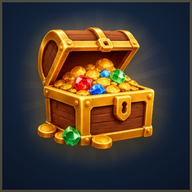
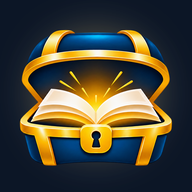
Icônes de l'appli (écran d'accueil, Apple, maskable, barre du site) avec le nouveau coffre ; cache de l'appli renouvelé
Claude-Session: https://claude.ai/code/session_01Co3Sq1uW57Cix38HbeX1Bz

diff --git a/public/jeu-de-societe-valeurs-islamiques/index.html b/public/jeu-de-societe-valeurs-islamiques/index.html
@@ -31,7 +31,7 @@
 <meta property="og:image:width" content="1200"><meta property="og:image:height" content="630">
 <meta name="twitter:card" content="summary_large_image">
 <link rel="icon" type="image/png" sizes="32x32" href="/img/logo/favicon-32.png?v=2"><link rel="icon" type="image/png" sizes="48x48" href="/img/logo/favicon-48.png?v=2"><link rel="icon" type="image/png" sizes="192x192" href="/img/logo/favicon-192.png?v=2">
-<link rel="apple-touch-icon" href="/img/app/apple-touch-icon.png">
+<link rel="apple-touch-icon" href="/img/app/apple-touch-icon.png?v=2">
 <link rel="preconnect" href="https://fonts.googleapis.com"><link rel="preconnect" href="https://fonts.gstatic.com" crossorigin>
 <link rel="stylesheet" href="https://fonts.googleapis.com/css2?family=Lilita+One&family=Nunito:wght@500;700;800;900&family=Noto+Naskh+Arabic:wght@500;700&display=swap">
 <script type="application/ld+json">{"@context": "https://schema.org", "@graph": [{"@type": "Article", "headline": "Enfin un jeu de société fidèle à nos valeurs, pour toute la famille", "description": "Un jeu de société familial en accord avec nos valeurs : sans dés, sans hasard, sans musique, sans riba ni publicité. Découvrez comment il a été pensé.", "inLanguage": "fr", "mainEntityOfPage": "https://kounouzi.com/jeu-de-societe-valeurs-islamiques/", "image": "https://kounouzi.com/img/site/og-fr.jpg", "author": {"@type": "Organization", "name": "Kounouzi", "url": "https://kounouzi.com/"}, "publisher": {"@type": "Organization", "name": "Kounouzi", "logo": {"@type": "ImageObject", "url": "https://kounouzi.com/img/logo/favicon-192.png"}}}, {"@type": "BreadcrumbList", "itemListElement": [{"@type": "ListItem", "position": 1, "name": "Kounouzi", "item": "https://kounouzi.com/"}, {"@type": "ListItem", "position": 2, "name": "Guides", "item": "https://kounouzi.com/#guides"}, {"@type": "ListItem", "position": 3, "name": "Fidèle à nos valeurs", "item": "https://kounouzi.com/jeu-de-societe-valeurs-islamiques/"}]}, {"@type": "FAQPage", "inLanguage": "fr", "mainEntity": [{"@type": "Question", "name": "Kounouzi a-t-il une certification religieuse ?", "acceptedAnswer": {"@type": "Answer", "text": "Non : Kounouzi a été conçu dans le respect des principes islamiques (sans dés ni hasard pour avancer, sans musique, sans riba, sans publicité). Chaque famille reste juge de ce qui lui convient."}}, {"@type": "Question", "name": "Peut-on couper tous les sons ?", "acceptedAnswer": {"@type": "Answer", "text": "Oui. La voix et les petits effets se désactivent dans les réglages du jeu."}}]}]}</script>

diff --git a/public/jeu-educatif-islamique-enfant/index.html b/public/jeu-educatif-islamique-enfant/index.html
@@ -31,7 +31,7 @@
 <meta property="og:image:width" content="1200"><meta property="og:image:height" content="630">
 <meta name="twitter:card" content="summary_large_image">
 <link rel="icon" type="image/png" sizes="32x32" href="/img/logo/favicon-32.png?v=2"><link rel="icon" type="image/png" sizes="48x48" href="/img/logo/favicon-48.png?v=2"><link rel="icon" type="image/png" sizes="192x192" href="/img/logo/favicon-192.png?v=2">
-<link rel="apple-touch-icon" href="/img/app/apple-touch-icon.png">
+<link rel="apple-touch-icon" href="/img/app/apple-touch-icon.png?v=2">
 <link rel="preconnect" href="https://fonts.googleapis.com"><link rel="preconnect" href="https://fonts.gstatic.com" crossorigin>
 <link rel="stylesheet" href="https://fonts.googleapis.com/css2?family=Lilita+One&family=Nunito:wght@500;700;800;900&family=Noto+Naskh+Arabic:wght@500;700&display=swap">
 <script type="application/ld+json">{"@context": "https://schema.org", "@graph": [{"@type": "Article", "headline": "Le jeu éducatif islamique qui donne envie d'apprendre", "description": "Un jeu éducatif islamique pour enfants : Coran, Sira, sciences, maths et valeurs, avec des questions adaptées à l'âge de chacun. À jouer en famille.", "inLanguage": "fr", "mainEntityOfPage": "https://kounouzi.com/jeu-educatif-islamique-enfant/", "image": "https://kounouzi.com/img/site/og-fr.jpg", "author": {"@type": "Organization", "name": "Kounouzi", "url": "https://kounouzi.com/"}, "publisher": {"@type": "Organization", "name": "Kounouzi", "logo": {"@type": "ImageObject", "url": "https://kounouzi.com/img/logo/favicon-192.png"}}}, {"@type": "BreadcrumbList", "itemListElement": [{"@type": "ListItem", "position": 1, "name": "Kounouzi", "item": "https://kounouzi.com/"}, {"@type": "ListItem", "position": 2, "name": "Guides", "item": "https://kounouzi.com/#guides"}, {"@type": "ListItem", "position": 3, "name": "Jeu éducatif islamique", "item": "https://kounouzi.com/jeu-educatif-islamique-enfant/"}]}, {"@type": "FAQPage", "inLanguage": "fr", "mainEntity": [{"@type": "Question", "name": "À partir de quel âge ?", "acceptedAnswer": {"@type": "Answer", "text": "Dès 5 ans. Les plus petits jouent avec une voix qui lit tout, les adolescents et les adultes reçoivent les questions des tranches les plus avancées."}}, {"@type": "Question", "name": "Les questions de religion sont-elles fiables ?", "acceptedAnswer": {"@type": "Answer", "text": "Elles suivent le Coran et la Sunnah : elles viennent de livres de savants reconnus, avec leur source, et sont relues avant publication. Rien n'est inventé."}}]}]}</script>

diff --git a/public/en/islamic-educational-game-for-kids/index.html b/public/en/islamic-educational-game-for-kids/index.html
@@ -31,7 +31,7 @@
 <meta property="og:image:width" content="1200"><meta property="og:image:height" content="630">
 <meta name="twitter:card" content="summary_large_image">
 <link rel="icon" type="image/png" sizes="32x32" href="/img/logo/favicon-32.png?v=2"><link rel="icon" type="image/png" sizes="48x48" href="/img/logo/favicon-48.png?v=2"><link rel="icon" type="image/png" sizes="192x192" href="/img/logo/favicon-192.png?v=2">
-<link rel="apple-touch-icon" href="/img/app/apple-touch-icon.png">
+<link rel="apple-touch-icon" href="/img/app/apple-touch-icon.png?v=2">
 <link rel="preconnect" href="https://fonts.googleapis.com"><link rel="preconnect" href="https://fonts.gstatic.com" crossorigin>
 <link rel="stylesheet" href="https://fonts.googleapis.com/css2?family=Lilita+One&family=Nunito:wght@500;700;800;900&family=Noto+Naskh+Arabic:wght@500;700&display=swap">
 <script type="application/ld+json">{"@context": "https://schema.org", "@graph": [{"@type": "Article", "headline": "The Islamic educational game that makes kids want to learn", "description": "An Islamic educational game for kids: Qur'an, Sira, science, maths and values, with questions suited to each child's age. Play it as a family.", "inLanguage": "en", "mainEntityOfPage": "https://kounouzi.com/en/islamic-educational-game-for-kids/", "image": "https://kounouzi.com/img/site/og-en.jpg", "author": {"@type": "Organization", "name": "Kounouzi", "url": "https://kounouzi.com/"}, "publisher": {"@type": "Organization", "name": "Kounouzi", "logo": {"@type": "ImageObject", "url": "https://kounouzi.com/img/logo/favicon-192.png"}}}, {"@type": "BreadcrumbList", "itemListElement": [{"@type": "ListItem", "position": 1, "name": "Kounouzi", "item": "https://kounouzi.com/en/"}, {"@type": "ListItem", "position": 2, "name": "Guides", "item": "https://kounouzi.com/en/#guides"}, {"@type": "ListItem", "position": 3, "name": "Islamic educational game", "item": "https://kounouzi.com/en/islamic-educational-game-for-kids/"}]}, {"@type": "FAQPage", "inLanguage": "en", "mainEntity": [{"@type": "Question", "name": "From what age?", "acceptedAnswer": {"@type": "Answer", "text": "From age 5. The youngest play with a voice that reads everything; teenagers and adults get questions from the most advanced age groups."}}, {"@type": "Question", "name": "Are the religion questions reliable?", "acceptedAnswer": {"@type": "Answer", "text": "They follow the Qur'an and the Sunnah: they come from recognised scholars' books, with their source, and are reviewed before publication. Nothing is made up."}}]}]}</script>

diff --git a/public/en/board-game-islamic-values/index.html b/public/en/board-game-islamic-values/index.html
@@ -31,7 +31,7 @@
 <meta property="og:image:width" content="1200"><meta property="og:image:height" content="630">
 <meta name="twitter:card" content="summary_large_image">
 <link rel="icon" type="image/png" sizes="32x32" href="/img/logo/favicon-32.png?v=2"><link rel="icon" type="image/png" sizes="48x48" href="/img/logo/favicon-48.png?v=2"><link rel="icon" type="image/png" sizes="192x192" href="/img/logo/favicon-192.png?v=2">
-<link rel="apple-touch-icon" href="/img/app/apple-touch-icon.png">
+<link rel="apple-touch-icon" href="/img/app/apple-touch-icon.png?v=2">
 <link rel="preconnect" href="https://fonts.googleapis.com"><link rel="preconnect" href="https://fonts.gstatic.com" crossorigin>
 <link rel="stylesheet" href="https://fonts.googleapis.com/css2?family=Lilita+One&family=Nunito:wght@500;700;800;900&family=Noto+Naskh+Arabic:wght@500;700&display=swap">
 <script type="application/ld+json">{"@context": "https://schema.org", "@graph": [{"@type": "Article", "headline": "Finally, a board game true to our values, for the whole family", "description": "A family board game in line with our values: no dice, no luck, no music, no riba and no ads. Discover how Kounouzi was designed.", "inLanguage": "en", "mainEntityOfPage": "https://kounouzi.com/en/board-game-islamic-values/", "image": "https://kounouzi.com/img/site/og-en.jpg", "author": {"@type": "Organization", "name": "Kounouzi", "url": "https://kounouzi.com/"}, "publisher": {"@type": "Organization", "name": "Kounouzi", "logo": {"@type": "ImageObject", "url": "https://kounouzi.com/img/logo/favicon-192.png"}}}, {"@type": "BreadcrumbList", "itemListElement": [{"@type": "ListItem", "position": 1, "name": "Kounouzi", "item": "https://kounouzi.com/en/"}, {"@type": "ListItem", "position": 2, "name": "Guides", "item": "https://kounouzi.com/en/#guides"}, {"@type": "ListItem", "position": 3, "name": "True to our values", "item": "https://kounouzi.com/en/board-game-islamic-values/"}]}, {"@type": "FAQPage", "inLanguage": "en", "mainEntity": [{"@type": "Question", "name": "Does Kounouzi have a religious certification?", "acceptedAnswer": {"@type": "Answer", "text": "No: Kounouzi was designed with respect for Islamic principles (no dice or luck to move, no music, no riba, no ads). Each family remains the judge of what suits them."}}, {"@type": "Question", "name": "Can all sounds be switched off?", "acceptedAnswer": {"@type": "Answer", "text": "Yes. The voice and the short effects can be turned off in the game settings."}}]}]}</script>

diff --git a/public/apprendre-zakat-enfants/index.html b/public/apprendre-zakat-enfants/index.html
@@ -31,7 +31,7 @@
 <meta property="og:image:width" content="1200"><meta property="og:image:height" content="630">
 <meta name="twitter:card" content="summary_large_image">
 <link rel="icon" type="image/png" sizes="32x32" href="/img/logo/favicon-32.png?v=2"><link rel="icon" type="image/png" sizes="48x48" href="/img/logo/favicon-48.png?v=2"><link rel="icon" type="image/png" sizes="192x192" href="/img/logo/favicon-192.png?v=2">
-<link rel="apple-touch-icon" href="/img/app/apple-touch-icon.png">
+<link rel="apple-touch-icon" href="/img/app/apple-touch-icon.png?v=2">
 <link rel="preconnect" href="https://fonts.googleapis.com"><link rel="preconnect" href="https://fonts.gstatic.com" crossorigin>
 <link rel="stylesheet" href="https://fonts.googleapis.com/css2?family=Lilita+One&family=Nunito:wght@500;700;800;900&family=Noto+Naskh+Arabic:wght@500;700&display=swap">
 <script type="application/ld+json">{"@context": "https://schema.org", "@graph": [{"@type": "Article", "headline": "Apprendre la Zakat et la valeur de l'argent en jouant", "description": "Apprendre aux enfants la Zakat, l'épargne et le don en jouant : un jeu de société où l'argent sert à construire, partager et aider, jamais à spéculer.", "inLanguage": "fr", "mainEntityOfPage": "https://kounouzi.com/apprendre-zakat-enfants/", "image": "https://kounouzi.com/img/site/og-fr.jpg", "author": {"@type": "Organization", "name": "Kounouzi", "url": "https://kounouzi.com/"}, "publisher": {"@type": "Organization", "name": "Kounouzi", "logo": {"@type": "ImageObject", "url": "https://kounouzi.com/img/logo/favicon-192.png"}}}, {"@type": "BreadcrumbList", "itemListElement": [{"@type": "ListItem", "position": 1, "name": "Kounouzi", "item": "https://kounouzi.com/"}, {"@type": "ListItem", "position": 2, "name": "Guides", "item": "https://kounouzi.com/#guides"}, {"@type": "ListItem", "position": 3, "name": "Éducation financière", "item": "https://kounouzi.com/apprendre-zakat-enfants/"}]}, {"@type": "FAQPage", "inLanguage": "fr", "mainEntity": [{"@type": "Question", "name": "La Zakat du jeu est-elle la vraie règle de la Zakat ?", "acceptedAnswer": {"@type": "Answer", "text": "C'est une version simplifiée et adaptée au jeu, pour faire découvrir le principe. Pour la pratique réelle, référez-vous à une personne de science."}}, {"@type": "Question", "name": "À partir de quel âge ?", "acceptedAnswer": {"@type": "Answer", "text": "Dès 5 ans ; les plus grands comprennent mieux les choix d'achat et de don."}}]}]}</script>

diff --git a/public/index.html b/public/index.html
@@ -38,7 +38,7 @@
 <meta name="twitter:description" content="Questions adaptées à chaque âge, défis en famille, générosité et Zakat : jouez ensemble, apprenez autrement.">
 <meta name="twitter:image" content="https://kounouzi.com/img/site/og-fr.jpg">
 <link rel="icon" type="image/png" sizes="32x32" href="/img/logo/favicon-32.png?v=2"><link rel="icon" type="image/png" sizes="48x48" href="/img/logo/favicon-48.png?v=2"><link rel="icon" type="image/png" sizes="192x192" href="/img/logo/favicon-192.png?v=2">
-<link rel="apple-touch-icon" href="/img/app/apple-touch-icon.png">
+<link rel="apple-touch-icon" href="/img/app/apple-touch-icon.png?v=2">
 <link rel="preload" as="image" href="/img/site/plateau.webp" fetchpriority="high">
 <link rel="preconnect" href="https://fonts.googleapis.com"><link rel="preconnect" href="https://fonts.gstatic.com" crossorigin>
 <link rel="stylesheet" href="https://fonts.googleapis.com/css2?family=Lilita+One&family=Nunito:wght@500;700;800;900&family=Noto+Naskh+Arabic:wght@500;700&display=swap">
@@ -550,7 +550,7 @@ footer .logo img.brand{height:72px}
     <div class="vs">
       <div class="vcol o rv"><h3>Un quiz islamique classique</h3><ul>
         <li>Des questions les unes après les autres</li><li>Souvent les mêmes questions pour tous les âges, sans suivre les progrès</li><li>Chacun sur son écran</li><li>On gagne si on connaît la réponse</li><li>Souvent avec de la publicité</li></ul></div>
-      <div class="vcol k rv d1"><h3><img src="/img/app/icon-192.png" alt="">Kounouzi</h3><ul>
+      <div class="vcol k rv d1"><h3><img src="/img/app/icon-192.png?v=2" alt="">Kounouzi</h3><ul>
         <li>Un vrai jeu de plateau, avec des décisions à prendre</li><li>1 764 questions adaptées à l'âge et au niveau de chacun</li><li>Parents et enfants autour du même écran</li><li>Donner et partager comptent dans le score final</li><li>Défis en famille, voix qui lit tout, français et arabe</li><li>Sans publicité, sans hasard, paiement unique</li></ul></div>
     </div>
   
@@ -654,7 +654,7 @@ footer .logo img.brand{height:72px}
 </div></footer>
 
 <div class="dock" id="dock">
-  <img src="/img/app/icon-192.png" alt="" width="42" height="42">
+  <img src="/img/app/icon-192.png?v=2" alt="" width="42" height="42">
   <div class="t"><b>Kounouzi</b><span id="dockSub">Prix de lancement · <span data-prix>6,99 €</span></span></div>
   <a class="btn btn-gold" href="#offre" data-cta id="dockBtn">Obtenir</a>
 </div>

diff --git a/public/sources-religion/index.html b/public/sources-religion/index.html
@@ -31,7 +31,7 @@
 <meta property="og:image:width" content="1200"><meta property="og:image:height" content="630">
 <meta name="twitter:card" content="summary_large_image">
 <link rel="icon" type="image/png" sizes="32x32" href="/img/logo/favicon-32.png?v=2"><link rel="icon" type="image/png" sizes="48x48" href="/img/logo/favicon-48.png?v=2"><link rel="icon" type="image/png" sizes="192x192" href="/img/logo/favicon-192.png?v=2">
-<link rel="apple-touch-icon" href="/img/app/apple-touch-icon.png">
+<link rel="apple-touch-icon" href="/img/app/apple-touch-icon.png?v=2">
 <link rel="preconnect" href="https://fonts.googleapis.com"><link rel="preconnect" href="https://fonts.gstatic.com" crossorigin>
 <link rel="stylesheet" href="https://fonts.googleapis.com/css2?family=Lilita+One&family=Nunito:wght@500;700;800;900&family=Noto+Naskh+Arabic:wght@500;700&display=swap">
 <script type="application/ld+json">{"@context": "https://schema.org", "@graph": [{"@type": "Article", "headline": "Nos sources en religion : le Coran, la Sunnah et des livres de savants", "description": "Les questions de religion de Kounouzi suivent le Coran et la Sunnah. Voici les livres de savants dont elles sont tirées, titre par titre.", "inLanguage": "fr", "mainEntityOfPage": "https://kounouzi.com/sources-religion/", "image": "https://kounouzi.com/img/site/og-fr.jpg", "author": {"@type": "Organization", "name": "Kounouzi", "url": "https://kounouzi.com/"}, "publisher": {"@type": "Organization", "name": "Kounouzi", "logo": {"@type": "ImageObject", "url": "https://kounouzi.com/img/logo/favicon-192.png"}}}, {"@type": "BreadcrumbList", "itemListElement": [{"@type": "ListItem", "position": 1, "name": "Kounouzi", "item": "https://kounouzi.com/"}, {"@type": "ListItem", "position": 2, "name": "Guides", "item": "https://kounouzi.com/#guides"}, {"@type": "ListItem", "position": 3, "name": "Nos sources", "item": "https://kounouzi.com/sources-religion/"}]}, {"@type": "FAQPage", "inLanguage": "fr", "mainEntity": [{"@type": "Question", "name": "D'où viennent les questions de religion ?", "acceptedAnswer": {"@type": "Answer", "text": "Elles suivent le Coran et la Sunnah et sont tirées de six livres de savants, listés sur cette page. La source est affichée sous chaque réponse dans le jeu."}}, {"@type": "Question", "name": "Combien de questions de religion y a-t-il ?", "acceptedAnswer": {"@type": "Answer", "text": "375 questions de religion, sur 1 764 questions au total."}}]}]}</script>

diff --git a/public/en/religion-sources/index.html b/public/en/religion-sources/index.html
@@ -31,7 +31,7 @@
 <meta property="og:image:width" content="1200"><meta property="og:image:height" content="630">
 <meta name="twitter:card" content="summary_large_image">
 <link rel="icon" type="image/png" sizes="32x32" href="/img/logo/favicon-32.png?v=2"><link rel="icon" type="image/png" sizes="48x48" href="/img/logo/favicon-48.png?v=2"><link rel="icon" type="image/png" sizes="192x192" href="/img/logo/favicon-192.png?v=2">
-<link rel="apple-touch-icon" href="/img/app/apple-touch-icon.png">
+<link rel="apple-touch-icon" href="/img/app/apple-touch-icon.png?v=2">
 <link rel="preconnect" href="https://fonts.googleapis.com"><link rel="preconnect" href="https://fonts.gstatic.com" crossorigin>
 <link rel="stylesheet" href="https://fonts.googleapis.com/css2?family=Lilita+One&family=Nunito:wght@500;700;800;900&family=Noto+Naskh+Arabic:wght@500;700&display=swap">
 <script type="application/ld+json">{"@context": "https://schema.org", "@graph": [{"@type": "Article", "headline": "Our religion sources: the Qur'an, the Sunnah and scholars' books", "description": "Kounouzi's religion questions follow the Qur'an and the Sunnah. Here are the scholars' books they are taken from, title by title.", "inLanguage": "en", "mainEntityOfPage": "https://kounouzi.com/en/religion-sources/", "image": "https://kounouzi.com/img/site/og-en.jpg", "author": {"@type": "Organization", "name": "Kounouzi", "url": "https://kounouzi.com/"}, "publisher": {"@type": "Organization", "name": "Kounouzi", "logo": {"@type": "ImageObject", "url": "https://kounouzi.com/img/logo/favicon-192.png"}}}, {"@type": "BreadcrumbList", "itemListElement": [{"@type": "ListItem", "position": 1, "name": "Kounouzi", "item": "https://kounouzi.com/en/"}, {"@type": "ListItem", "position": 2, "name": "Guides", "item": "https://kounouzi.com/en/#guides"}, {"@type": "ListItem", "position": 3, "name": "Our sources", "item": "https://kounouzi.com/en/religion-sources/"}]}, {"@type": "FAQPage", "inLanguage": "en", "mainEntity": [{"@type": "Question", "name": "Where do the religion questions come from?", "acceptedAnswer": {"@type": "Answer", "text": "They follow the Qur'an and the Sunnah and are taken from six scholars' books, listed on this page. The source is shown under each answer in the game."}}, {"@type": "Question", "name": "How many religion questions are there?", "acceptedAnswer": {"@type": "Answer", "text": "375 religion questions, out of 1,764 questions in total."}}]}]}</script>

diff --git a/public/en/index.html b/public/en/index.html
@@ -38,7 +38,7 @@
 <meta name="twitter:description" content="Questions suited to every age, family challenges, generosity and Zakat: play together, learn differently.">
 <meta name="twitter:image" content="https://kounouzi.com/img/site/og-en.jpg">
 <link rel="icon" type="image/png" sizes="32x32" href="/img/logo/favicon-32.png?v=2"><link rel="icon" type="image/png" sizes="48x48" href="/img/logo/favicon-48.png?v=2"><link rel="icon" type="image/png" sizes="192x192" href="/img/logo/favicon-192.png?v=2">
-<link rel="apple-touch-icon" href="/img/app/apple-touch-icon.png">
+<link rel="apple-touch-icon" href="/img/app/apple-touch-icon.png?v=2">
 <link rel="preload" as="image" href="/img/site/en/plateau.webp" fetchpriority="high">
 <link rel="preconnect" href="https://fonts.googleapis.com"><link rel="preconnect" href="https://fonts.gstatic.com" crossorigin>
 <link rel="stylesheet" href="https://fonts.googleapis.com/css2?family=Lilita+One&family=Nunito:wght@500;700;800;900&family=Noto+Naskh+Arabic:wght@500;700&display=swap">
@@ -552,7 +552,7 @@ footer .logo img.brand{height:72px}
     <div class="vs">
       <div class="vcol o rv"><h3>A classic Islamic quiz</h3><ul>
         <li>One question after another</li><li>Often the same questions for every age, without following progress</li><li>Everyone on their own screen</li><li>You win if you know the answer</li><li>Often with ads</li></ul></div>
-      <div class="vcol k rv d1"><h3><img src="/img/app/icon-192.png" alt="">Kounouzi</h3><ul>
+      <div class="vcol k rv d1"><h3><img src="/img/app/icon-192.png?v=2" alt="">Kounouzi</h3><ul>
         <li>A real board game, with decisions to make</li><li>1,764 questions suited to each person's age and level (English translation in progress)</li><li>Parents and children around the same screen</li><li>Giving and sharing count in the final score</li><li>Family challenges, a voice that reads everything, Arabic for religion explanations</li><li>No ads, no luck, one-time payment</li></ul></div>
     </div>
   
@@ -658,7 +658,7 @@ footer .logo img.brand{height:72px}
 </div></footer>
 
 <div class="dock" id="dock">
-  <img src="/img/app/icon-192.png" alt="" width="42" height="42">
+  <img src="/img/app/icon-192.png?v=2" alt="" width="42" height="42">
   <div class="t"><b>Kounouzi</b><span id="dockSub">Launch price · <span data-prix>€6.99</span></span></div>
   <a class="btn btn-gold" href="#offre" data-cta id="dockBtn">Get it</a>
 </div>

diff --git a/public/regles-du-jeu/index.html b/public/regles-du-jeu/index.html
@@ -31,7 +31,7 @@
 <meta property="og:image:width" content="1200"><meta property="og:image:height" content="630">
 <meta name="twitter:card" content="summary_large_image">
 <link rel="icon" type="image/png" sizes="32x32" href="/img/logo/favicon-32.png?v=2"><link rel="icon" type="image/png" sizes="48x48" href="/img/logo/favicon-48.png?v=2"><link rel="icon" type="image/png" sizes="192x192" href="/img/logo/favicon-192.png?v=2">
-<link rel="apple-touch-icon" href="/img/app/apple-touch-icon.png">
+<link rel="apple-touch-icon" href="/img/app/apple-touch-icon.png?v=2">
 <link rel="preconnect" href="https://fonts.googleapis.com"><link rel="preconnect" href="https://fonts.gstatic.com" crossorigin>
 <link rel="stylesheet" href="https://fonts.googleapis.com/css2?family=Lilita+One&family=Nunito:wght@500;700;800;900&family=Noto+Naskh+Arabic:wght@500;700&display=swap">
 <script type="application/ld+json">{"@context": "https://schema.org", "@graph": [{"@type": "Article", "headline": "Comment jouer à Kounouzi : les règles en 5 minutes", "description": "Les règles de Kounouzi expliquées simplement : le Chemin, les questions, les établissements, les défis famille, le Don, la Zakat et le score final.", "inLanguage": "fr", "mainEntityOfPage": "https://kounouzi.com/regles-du-jeu/", "image": "https://kounouzi.com/img/site/og-fr.jpg", "author": {"@type": "Organization", "name": "Kounouzi", "url": "https://kounouzi.com/"}, "publisher": {"@type": "Organization", "name": "Kounouzi", "logo": {"@type": "ImageObject", "url": "https://kounouzi.com/img/logo/favicon-192.png"}}}, {"@type": "BreadcrumbList", "itemListElement": [{"@type": "ListItem", "position": 1, "name": "Kounouzi", "item": "https://kounouzi.com/"}, {"@type": "ListItem", "position": 2, "name": "Guides", "item": "https://kounouzi.com/#guides"}, {"@type": "ListItem", "position": 3, "name": "Règles du jeu", "item": "https://kounouzi.com/regles-du-jeu/"}]}, {"@type": "FAQPage", "inLanguage": "fr", "mainEntity": [{"@type": "Question", "name": "Peut-on mettre la partie en pause ?", "acceptedAnswer": {"@type": "Answer", "text": "Oui, le menu met tout en pause, et une partie interrompue se reprend plus tard sur le même appareil."}}, {"@type": "Question", "name": "Qui valide les réponses ?", "acceptedAnswer": {"@type": "Answer", "text": "La famille : après la réponse affichée, on choisit bonne réponse, en partie ou pas cette fois."}}]}]}</script>

diff --git a/public/en/teach-kids-zakat/index.html b/public/en/teach-kids-zakat/index.html
@@ -31,7 +31,7 @@
 <meta property="og:image:width" content="1200"><meta property="og:image:height" content="630">
 <meta name="twitter:card" content="summary_large_image">
 <link rel="icon" type="image/png" sizes="32x32" href="/img/logo/favicon-32.png?v=2"><link rel="icon" type="image/png" sizes="48x48" href="/img/logo/favicon-48.png?v=2"><link rel="icon" type="image/png" sizes="192x192" href="/img/logo/favicon-192.png?v=2">
-<link rel="apple-touch-icon" href="/img/app/apple-touch-icon.png">
+<link rel="apple-touch-icon" href="/img/app/apple-touch-icon.png?v=2">
 <link rel="preconnect" href="https://fonts.googleapis.com"><link rel="preconnect" href="https://fonts.gstatic.com" crossorigin>
 <link rel="stylesheet" href="https://fonts.googleapis.com/css2?family=Lilita+One&family=Nunito:wght@500;700;800;900&family=Noto+Naskh+Arabic:wght@500;700&display=swap">
 <script type="application/ld+json">{"@context": "https://schema.org", "@graph": [{"@type": "Article", "headline": "Teach kids Zakat and the value of money through play", "description": "Teach children Zakat, saving and giving through play: a board game where money is used to build, share and help, never to speculate.", "inLanguage": "en", "mainEntityOfPage": "https://kounouzi.com/en/teach-kids-zakat/", "image": "https://kounouzi.com/img/site/og-en.jpg", "author": {"@type": "Organization", "name": "Kounouzi", "url": "https://kounouzi.com/"}, "publisher": {"@type": "Organization", "name": "Kounouzi", "logo": {"@type": "ImageObject", "url": "https://kounouzi.com/img/logo/favicon-192.png"}}}, {"@type": "BreadcrumbList", "itemListElement": [{"@type": "ListItem", "position": 1, "name": "Kounouzi", "item": "https://kounouzi.com/en/"}, {"@type": "ListItem", "position": 2, "name": "Guides", "item": "https://kounouzi.com/en/#guides"}, {"@type": "ListItem", "position": 3, "name": "Money skills", "item": "https://kounouzi.com/en/teach-kids-zakat/"}]}, {"@type": "FAQPage", "inLanguage": "en", "mainEntity": [{"@type": "Question", "name": "Is the game's Zakat the real Zakat rule?", "acceptedAnswer": {"@type": "Answer", "text": "It is a simplified version adapted to the game, to introduce the principle. For actual practice, refer to a person of knowledge."}}, {"@type": "Question", "name": "From what age?", "acceptedAnswer": {"@type": "Answer", "text": "From age 5; older children better understand buying and giving decisions."}}]}]}</script>

diff --git a/public/en/how-to-play/index.html b/public/en/how-to-play/index.html
@@ -31,7 +31,7 @@
 <meta property="og:image:width" content="1200"><meta property="og:image:height" content="630">
 <meta name="twitter:card" content="summary_large_image">
 <link rel="icon" type="image/png" sizes="32x32" href="/img/logo/favicon-32.png?v=2"><link rel="icon" type="image/png" sizes="48x48" href="/img/logo/favicon-48.png?v=2"><link rel="icon" type="image/png" sizes="192x192" href="/img/logo/favicon-192.png?v=2">
-<link rel="apple-touch-icon" href="/img/app/apple-touch-icon.png">
+<link rel="apple-touch-icon" href="/img/app/apple-touch-icon.png?v=2">
 <link rel="preconnect" href="https://fonts.googleapis.com"><link rel="preconnect" href="https://fonts.gstatic.com" crossorigin>
 <link rel="stylesheet" href="https://fonts.googleapis.com/css2?family=Lilita+One&family=Nunito:wght@500;700;800;900&family=Noto+Naskh+Arabic:wght@500;700&display=swap">
 <script type="application/ld+json">{"@context": "https://schema.org", "@graph": [{"@type": "Article", "headline": "How to play Kounouzi: the rules in 5 minutes", "description": "Kounouzi rules explained simply: the Path, questions, properties, family challenges, Giving, Zakat and the final score.", "inLanguage": "en", "mainEntityOfPage": "https://kounouzi.com/en/how-to-play/", "image": "https://kounouzi.com/img/site/og-en.jpg", "author": {"@type": "Organization", "name": "Kounouzi", "url": "https://kounouzi.com/"}, "publisher": {"@type": "Organization", "name": "Kounouzi", "logo": {"@type": "ImageObject", "url": "https://kounouzi.com/img/logo/favicon-192.png"}}}, {"@type": "BreadcrumbList", "itemListElement": [{"@type": "ListItem", "position": 1, "name": "Kounouzi", "item": "https://kounouzi.com/en/"}, {"@type": "ListItem", "position": 2, "name": "Guides", "item": "https://kounouzi.com/en/#guides"}, {"@type": "ListItem", "position": 3, "name": "How to play", "item": "https://kounouzi.com/en/how-to-play/"}]}, {"@type": "FAQPage", "inLanguage": "en", "mainEntity": [{"@type": "Question", "name": "Can the game be paused?", "acceptedAnswer": {"@type": "Answer", "text": "Yes, the menu pauses everything, and an interrupted game can be resumed later on the same device."}}, {"@type": "Question", "name": "Who validates the answers?", "acceptedAnswer": {"@type": "Answer", "text": "The family: once the answer is shown, you choose right, partly right or not this time."}}]}]}</script>
